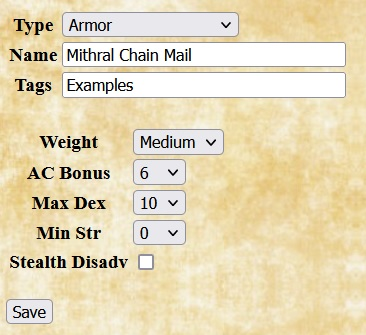
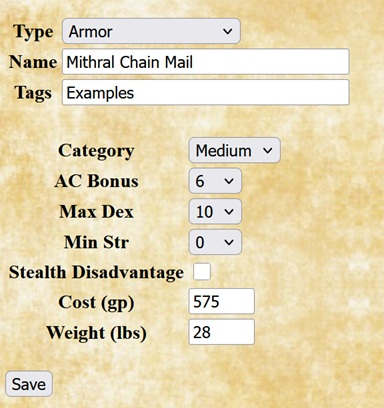
Update homebrew discussion.

diff --git a/plugins/homebrew-srd5e.html b/plugins/homebrew-srd5e.html
@@ -74,8 +74,11 @@ below show only the beginning portion of longer values entered into text boxes.
 For homebrew armors, Quilvyn displays fields for entering the armor's weight
 category, the boost to armor class gained by using the armor, the maximum
 dexterity armor class bonus allowed when wearing the armor, the minimum
-strength required to use the armor without loss of speed, and whether wearing
-the armor inflicts disadvantage on Dexterity (Stealth) rolls.
+strength required to use the armor without loss of speed, whether wearing the
+the armor inflicts disadvantage on Dexterity (Stealth) rolls, and the armor's
+cost and weight. In the cost and weight fields, enter a decimal for armor that
+costs less than a gold piece or weighs less than a pound, e.g., enter "0.2" and
+"0.5" for homebrew armor that costs 2 silver pieces and weighs half a pound.
 </p><p>
 The example shown gives the values for chain mail made from mithral. As
 discussed in the Magic Items A-Z section of the SRD, making armor from mithral
@@ -340,9 +343,12 @@ slot level above 4th.
 <img src='../Images/hb5e-tool.jpg' alt='Homebrew Tool'/>
 </td><td>
 <p>
-Adding a homebrew tool requires only specifying its name and its type (one of
-Artisan, Gaming, Musical, or General). The example shows the entry for a
-whistle.
+For a homebrew tool, Quilvyn displays fields to note its name, category (one
+of Artisan's Tools, Gaming Set, Musical Instrument, or General), its cost, and
+its weight. In the cost and weight fields, enter a decimal for tools that
+cost less than a gold piece or weigh less than a pound, e.g., enter "0.2" and
+"0.5" for a homebrew tool that costs 2 silver pieces and weighs half a pound.
+The example shows the entry for a whistle.
 </p>
 </td></tr>
 

diff --git a/plugins/SRD5E.js b/plugins/SRD5E.js
@@ -3808,7 +3808,7 @@ SRD5E.TOOLS = {
   "Navigator's Tools":'Category=General Cost=25 Weight=2',
   "Poisoner's Kit":'Category=General Cost=50 Weight=2',
   "Thieves' Tools":'Category=General Cost=25 Weight=1',
-  // Cost and weight of Vehicles varies; although neither is important for the
+  // Cost and weight of Vehicles varies; since neither is important for the
   // character sheet, we use the values for a cart and a rowboat
   'Vehicles (Land)':'Category=General Cost=15 Weight=200',
   'Vehicles (Water)':'Category=General Cost=50 Weight=100'
@@ -5481,7 +5481,7 @@ SRD5E.featureRules = function(
   // DC for spells to be determined later. Not sure if this is still used.
   if(spells.length > 0 || spellAbility != null) {
     let levelAttr = 'level';
-    let spellType = name.replaceAll(/[- ()]/g, '');
+    let spellType = name.replaceAll(/[-' ()]/g, '');
     let sources =
       // Note inclusion of species for 5.5e support
       Object.assign({}, rules.getChoices('levels'), rules.getChoices('races') || rules.getChoices('species'), rules.getChoices('feats'), rules.getChoices('backgrounds'));
@@ -6474,11 +6474,11 @@ SRD5E.choiceEditorElements = function(rules, type) {
     ];
     result.push(
       ['Category', 'Category', 'select-one', ['None', 'Light', 'Medium', 'Heavy']],
-      ['Cost', 'Cost (gp)', 'text', [5]],
       ['AC', 'AC Bonus', 'select-one', zeroToTen],
       ['Dex', 'Max Dex', 'select-one', zeroToTen],
       ['Str', 'Min Str', 'select-one', zeroToEighteen],
       ['Bulky', 'Stealth Disadvantage', 'checkbox', ['']],
+      ['Cost', 'Cost (gp)', 'text', [5]],
       ['Weight', 'Weight (lbs)', 'text', [5]]
     );
   } else if(type == 'Background')
